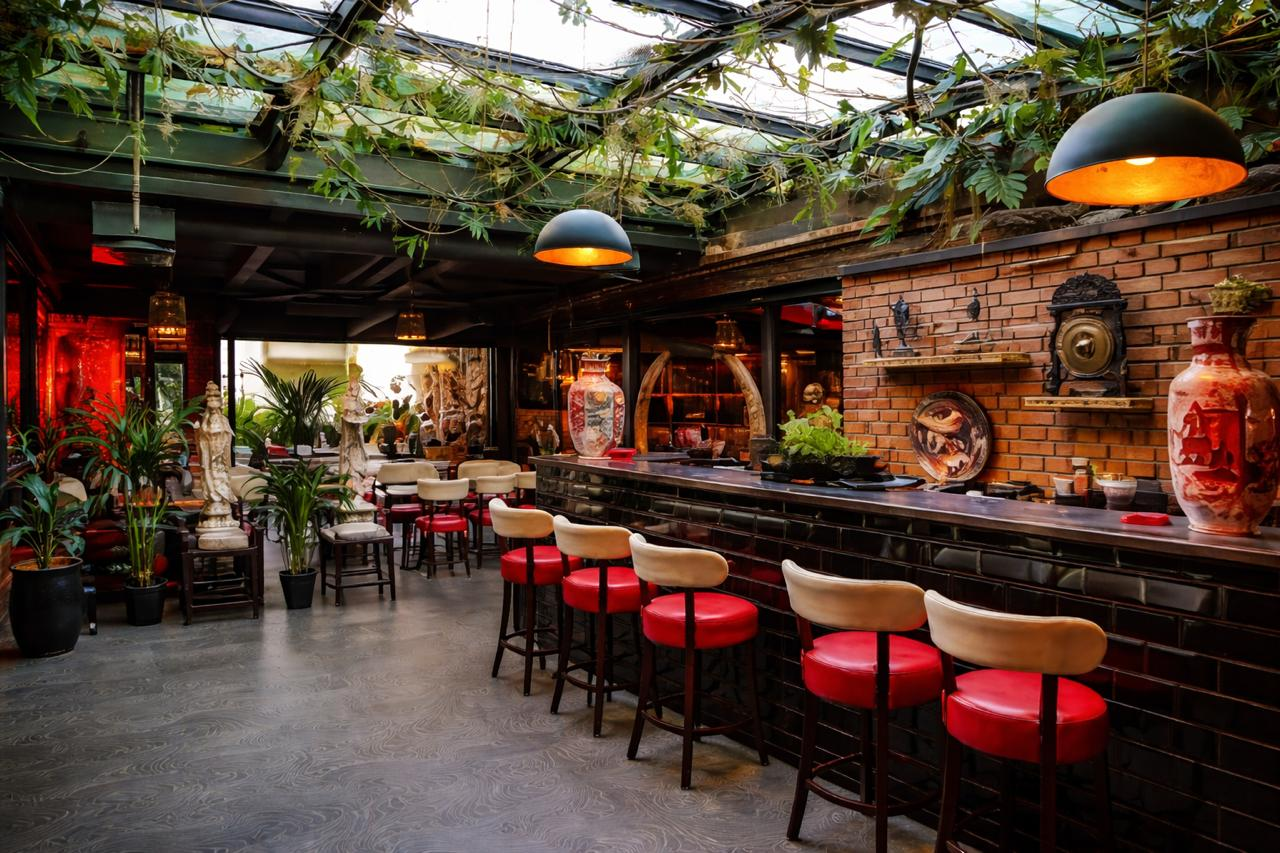
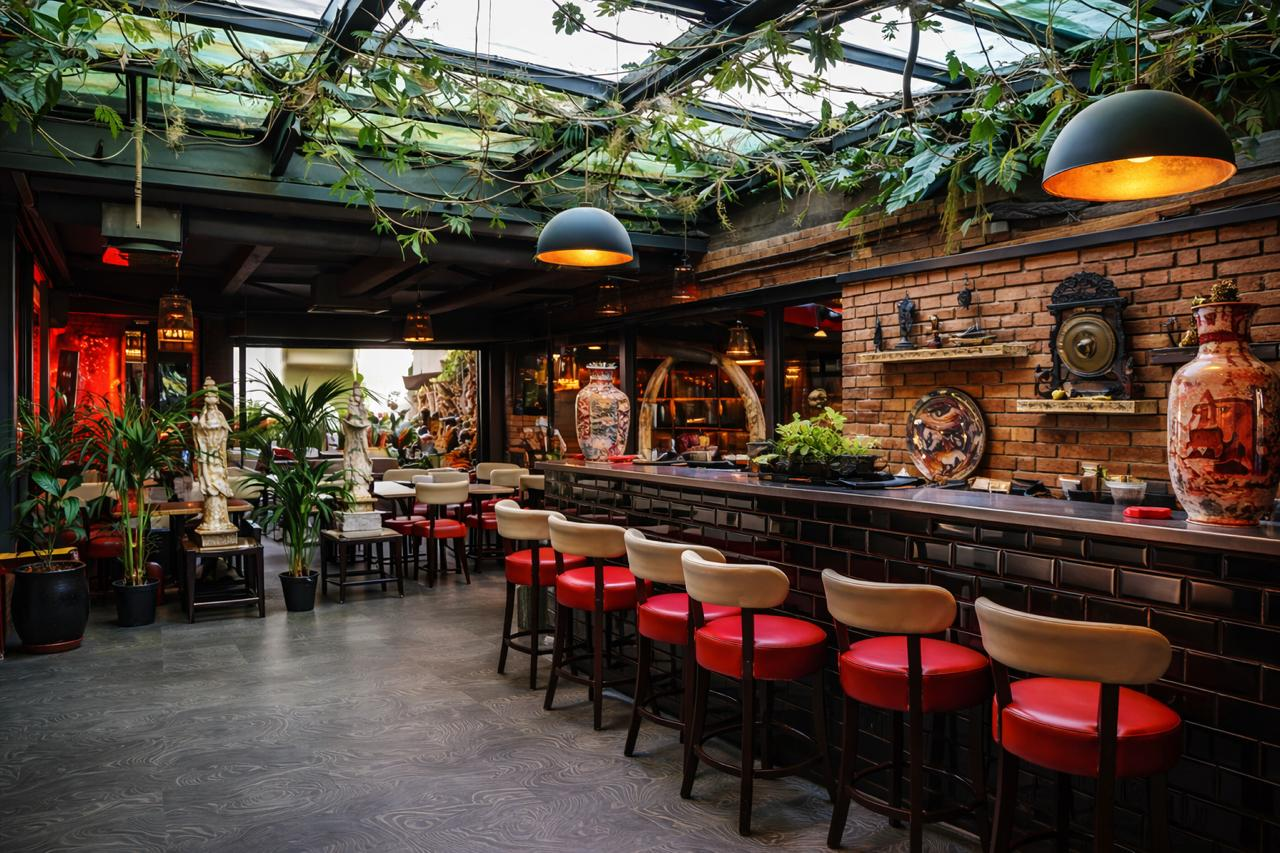
ed

diff --git a/PROJET 2/Acceuil.html b/PROJET 2/Acceuil.html
@@ -10,8 +10,18 @@
             <div class="logo">
                 <img src="image/pandaLogo.png" alt="Logo restaurant panda" />
             </div>
-            <div class="lien">
-                
+            <div class="navigation">
+                <ul>
+                    <li>
+                        <a href="menu.html">Menu</a>
+                    </li>
+                    <li>
+                        <a href="Connexion.html">Connexion</a>
+                    </li>
+                    <li>
+                        <a href="Note.html">Notez-nous</a>
+                    </li>
+                </ul>
             </div>
         </nav>
 

diff --git a/PROJET 2/styleAccueil.css b/PROJET 2/styleAccueil.css
@@ -6,15 +6,32 @@ body {
 }
 
 nav {
-   background-color: white;
+   background-color: rgb(0, 0, 0);
    height: 130px;
    display: flex;
    align-items: center;
    width: 100%;
+   justify-content: space-between;
 }
 
 div.logo img{
     padding-left: 50px;
-    height: 120px;
+    height: 100px;
     width: auto;
+}
+
+.navigation ul {
+    display: flex;
+    flex-direction: row;
+    list-style: none;
+}
+
+li{
+    border-right: 1px solid rgb(218, 187, 14);
+    padding: 15px 25px;
+}
+
+li a {
+    text-decoration: none;
+    color: white;
 }
